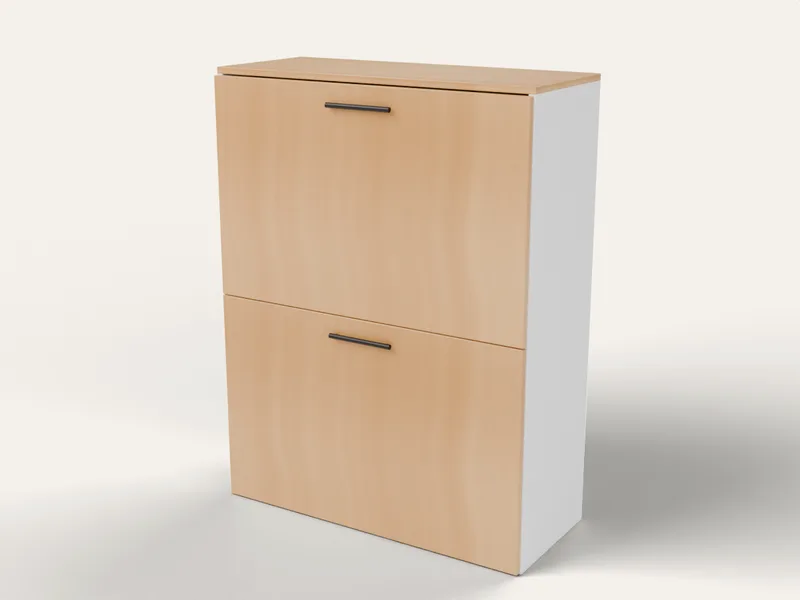
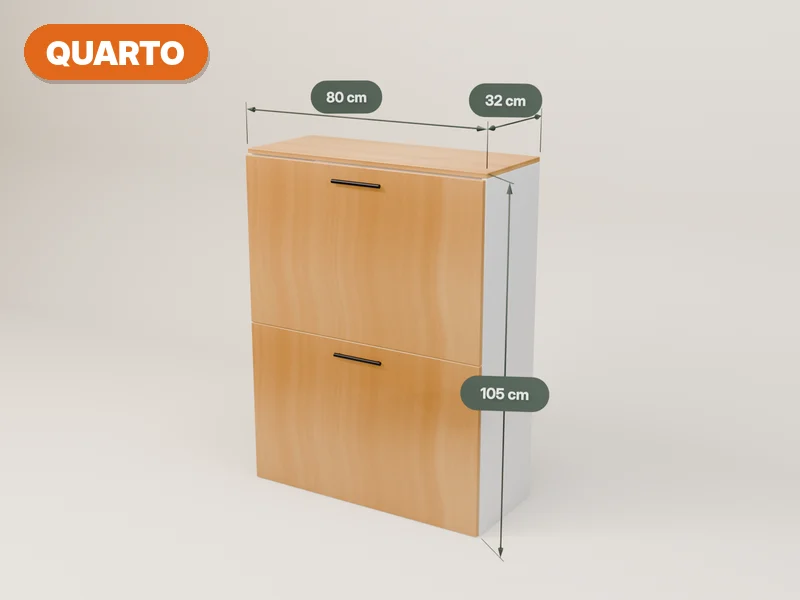
Imagens novas renderizadas no Blender: cards realistas, projetos com medidas e ambiente
Claude-Session: https://claude.ai/code/session_01Kwo6pDuHwGipEZqAqJyqnS

diff --git a/src/components/BonusSection.tsx b/src/components/BonusSection.tsx
@@ -75,7 +75,7 @@ const BonusSection = memo(() => {
                             alt={project.alt}
                             width={PROJECT_IMAGE_WIDTH}
                             height={PROJECT_IMAGE_HEIGHT}
-                            className="w-full h-64 object-cover bg-[#F4F1EC]"
+                            className="w-full h-64 object-contain bg-[#E9E2D6]"
                             loading="lazy"
                             decoding="async"
                           />
